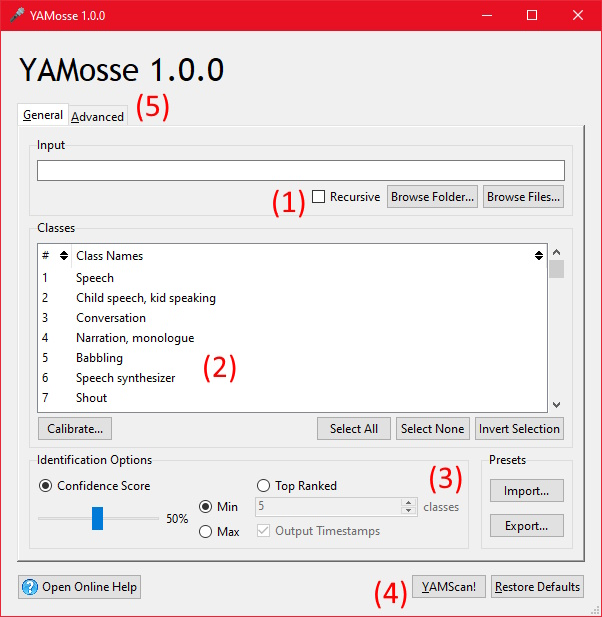
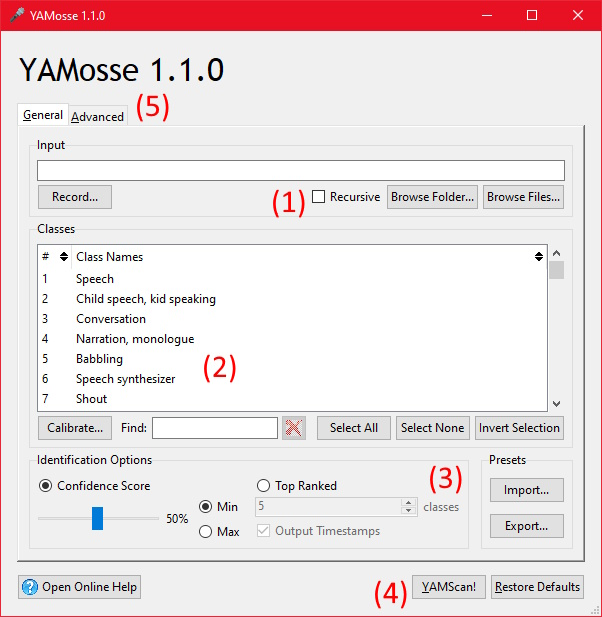
update README to mention sound recording

diff --git a/README.md b/README.md
@@ -36,6 +36,12 @@ However, installing the `tensorflow-hub` package *will also update your TensorFl
 
 After using Git to clone the YAMosse repository, run a submodule update. The submodule update will clone the [TensorFlow Model Garden](https://github.com/tensorflow/models/) repository. Then you can run YAMosse and it will be able to load the YAMNet model from that repository. The weights file, which is not included in the TensorFlow Model Garden, will be downloaded separately the first time you perform a YAMScan.
 
+## Optional: Recording
+
+YAMosse has an optional feature that allows you to record sounds from an input device such as your microphone, directly within the application. To enable this feature, run the command `pip install sounddevice --user` in a command prompt. If you are on Linux, you will also need to manually install PortAudio.
+
+If you omit the `--user` argument, the [`sounddevice`](https://python-sounddevice.readthedocs.io/) package will be installed for all users, but this will require sufficient privileges. 
+
 # Usage
 
 To run YAMosse in a window, open the `yamosse_window.pyw` file by double clicking on it. Alternatively, you can run the command `pythonw -m yamosse` in a command prompt.
@@ -59,6 +65,7 @@ If the results are not satisfactory, you can tweak some more advanced options on
 YAMosse also has a command line interface. If any of the command line arguments are specified, the command line interface will be used instead of the GUI.
 
  - `-rd` or `--restore_defaults`: restores the defaults.
+ - `-r` or `--record`: records a new sound.
  - `-ip import_preset_file_name` or `--import-preset import_preset_file_name`: imports a preset file (in JSON format.)
  - `-ep export_preset_file_name` or `--export-preset export_preset_file_name`: exports a preset file (in JSON format.)
  - `-y output_file_name` or `--yamscan output_file_name`: performs a YAMScan.
@@ -83,6 +90,7 @@ except yamosse.subsystem.SubsystemError as ex:
 All of the keyword arguments are optional. If no keyword arguments are specified, calling the `yamosse` function will open the GUI. If any keyword arguments are specified, they will behave the same as the command line interface.
 
  - `restore_defaults`: True or False. If True, restores the defaults.
+ - `record`: True or False. If True, records a new sound.
  - `import_preset_file_name`: A string containing the file name to import a preset from (in JSON format.)
  - `export_preset_file_name`: A string containing the file name to export a preset to (in JSON format.)
  - `output_file_name`: A string containing the output file name for a YAMScan.
@@ -101,6 +109,10 @@ To scan the audio from a video file with YAMosse, you first need to convert it t
 ## When scanning MP3s, sometimes there are a lot of timestamps past the end of the file. Why?
 
 This is due to a bug in libsoundfile where it misreports the length of MP3s that have album art in them. It is a problem with the `soundfile` package and cannot be fixed by YAMosse. For now, you can use an ID3 editor like [The GodFather](https://www.jtclipper.eu/thegodfather/) to remove the album art from your MP3s before scanning them.
+
+## Can YAMosse scan for custom sounds? Is it possible to add more sound classes?
+
+No. YAMosse is only able to scan for the 521 classes available in YAMNet, the full list of which can be found [on their repo.](https://github.com/tensorflow/models/blob/master/research/audioset/yamnet/yamnet_class_map.csv)
 
 ## Can YAMosse identify words and phrases?
 
@@ -156,6 +168,10 @@ To use GPU Acceleration, you will need to [install NVIDIA CUDA Toolkit and cuDNN
 I have tested and confirmed that YAMosse is compatible with TensorFlow 2.8.0 and Keras 2.8.0, which will work for this purpose if you want to avoid setting up virtualization, though do note that in this case you will need to install the legacy `keras` package rather than `tf-keras`.
 
 You will know when GPU Acceleration is enabled and working correctly because "GPU Acceleration Enabled" will appear in the Log textbox whenever you perform a YAMScan. If you still can't get GPU Acceleration to work, try running YAMosse with a console by opening `yamosse_console.py`. Then you will be able to see TensorFlow's more verbose error logs, which could reveal the problem.
+
+## Can I change the sound quality of recordings?
+
+The recording feature of YAMosse records sounds in mono at 16000 Hz. This is because it is the sound format that the YAMNet model expects - so any sound at a different quality is resampled as part of the scanning process. In other words, the recording feature is intended for recording in the most optimal format for scans. If you would like to record in a different format, please use a different sound recording application.
 
 ## What does Calibration do?
 
